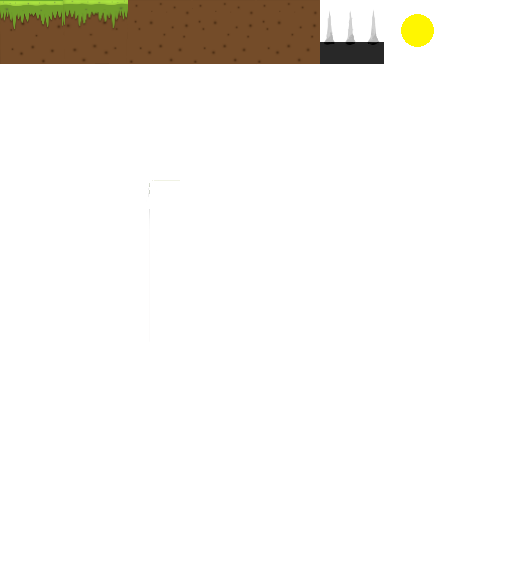
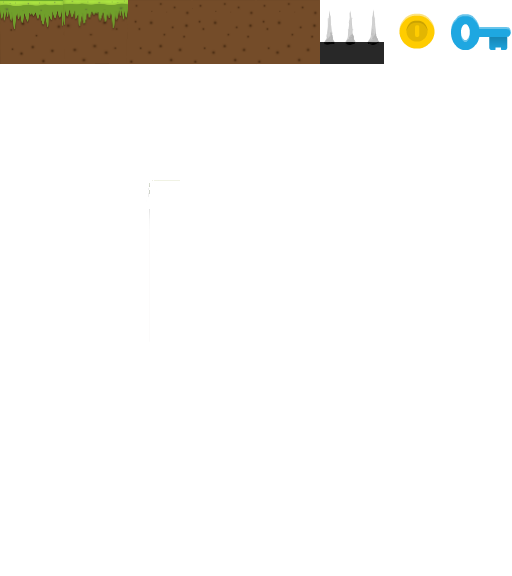
Coins
Collectable coins

Changed region(s): [[0.7812, 0.0, 1.0, 0.0938]]

diff --git a/level1.js b/level1.js
@@ -12,7 +12,18 @@ EnemySnail = function(index,game,x,y){
 		x: this.snail.x + 50
 	},2000,'Linear',true,0,100,true);
 	
+};
+var coinscollector ={
+	coinsadd:function(obj1,obj2){
+		mapc.putTile(-1,Groundlayer.getTileX(player.x),Groundlayer.getTileY(player.y));
+		if(!obj1.hasTriggered || !obj2.hasTriggered){
+			obj1.hasTriggered = obj2.hasTriggered = true;
+			
+			coinscount++;
+		}		
+	}
 }
+
 Game.level1 = function(game){};
 
 var mapg;
@@ -28,11 +39,13 @@ var controls=[];
 var playerSpeed = 100;
 var jumpTimer = 0;
 var button;
-var coins=0;
 var called = false;
 
 Game.level1.prototype = {
 	create:function(game){
+		coinscount=0;
+
+		
 		button = this.add.button(600,this.world.Y,'buttons',function(){
 			console.log('pressed');
 		},this,2,1,0);
@@ -56,14 +69,15 @@ Game.level1.prototype = {
 		//paltformLayer.resizeWorld();
 		mapg.setCollisionBetween(0,4);
 		mapp.setCollisionBetween(0,4);
-		mapc.setCollisionBetween(0,4);
+		//mapc.setCollisionBetween(0,6);
 			
 		mapg.setTileIndexCallback(5,this.gameover,this);
 		mapp.setTileIndexCallback(5,this.gameover,this);
-		mapg.setTileIndexCallback(6,this.coins,this);
 		
-		mapc.setTileIndexCallback(6,this.coins,this);
-		/*mapp.setTileIndexCallback(4,this.coins1,this);*/
+		this.game.physics.arcade.enable(coinsLayer);
+		mapc.setTileIndexCallback(6,coinscollector.coinsadd,this);
+		
+		
 		
 		player = this.add.sprite(100,250,'player');
 		player.scale.setTo(1.5,1.5);
@@ -74,13 +88,13 @@ Game.level1.prototype = {
 		player.body.collideWorldBounds = true;
 
 		
-		textBox = this.add.text(20,20,"COINS: "+coins);
+		textBox = this.add.text(20,20,"COINS: "+coinscount);
 	textBox.fixedToCamera = true;
 		
 		snail1 = new EnemySnail(0,game,400,this.world.height - 142);
 		
-		//snail1 = new EnemySnail(0,game,400,100);
 		
+				
 	},
 	
 	update:function(){
@@ -94,6 +108,7 @@ Game.level1.prototype = {
 		this.physics.arcade.collide(player,Groundlayer);
 		this.physics.arcade.collide(player,platformLayer);
 		
+		this.physics.arcade.collide(player,coinsLayer,this.coinsadd,null,this);
 		
 		if(jumpbutton.isDown && jumpTimer < 2){
 			jumpTimer = jumpTimer + 1;
@@ -127,25 +142,28 @@ Game.level1.prototype = {
 			jumpTimer = 0;
 		}  
 		
-		
+		textBox.setText("COINS: "+coinscount);
 	},
 	
 	gameover:function(){
 		player.reset(100,250);
 	},
 	
-	/*coins1:function(){
+	coins1:function(){
 		if(this.body.checkCollision.down){
 			alert('BANK');
 		}
 		if(player.body.touching.up){
 			this.physics.arcade.collide(player,this);
 		}
-	},*/
-	coins:function(){
-		mapg.putTile(-1,Groundlayer.getTileX(player.x),Groundlayer.getTileY(player.y));
-		called = true;
-	
 	},
+	coinsadd:function(obj1,obj2){
+		
+		if(!obj1.hasTriggered && !obj2.hasTriggered){
+			obj1.hasTriggered = obj2.hasTriggered = true;
+			mapc.putTile(-1,Groundlayer.getTileX(player.x),Groundlayer.getTileY(player.y));
+			coinscount++;
+		}		
+	}
 	
 };

diff --git a/Preloader.js b/Preloader.js
@@ -17,7 +17,11 @@ Game.Preloader.prototype = {
 		this.load.tilemap('PlatLayer','assets/platform102_Tile Layer 2.csv');
 		
 		this.load.tilemap('coinsLayer','assets/platform102_Tile Layer 3.csv');
+		
+
 		this.load.image('tileset','assets/tiles.png');
+		
+		//this.load.image('coins','assets/coinGold.png');
 		this.load.spritesheet('player','assets/player_spritesheet.png',28,30,5,1,1);
 		
 		this.load.spritesheet('buttons','assets/buttons.png',193,71);

diff --git a/coin.tsx b/coin.tsx
@@ -1,0 +1,4 @@
+<?xml version="1.0" encoding="UTF-8"?>
+<tileset name="coin" tilewidth="70" tileheight="70" tilecount="1" columns="1">
+ <image source="assets/coinGold.png" width="70" height="70"/>
+</tileset>
